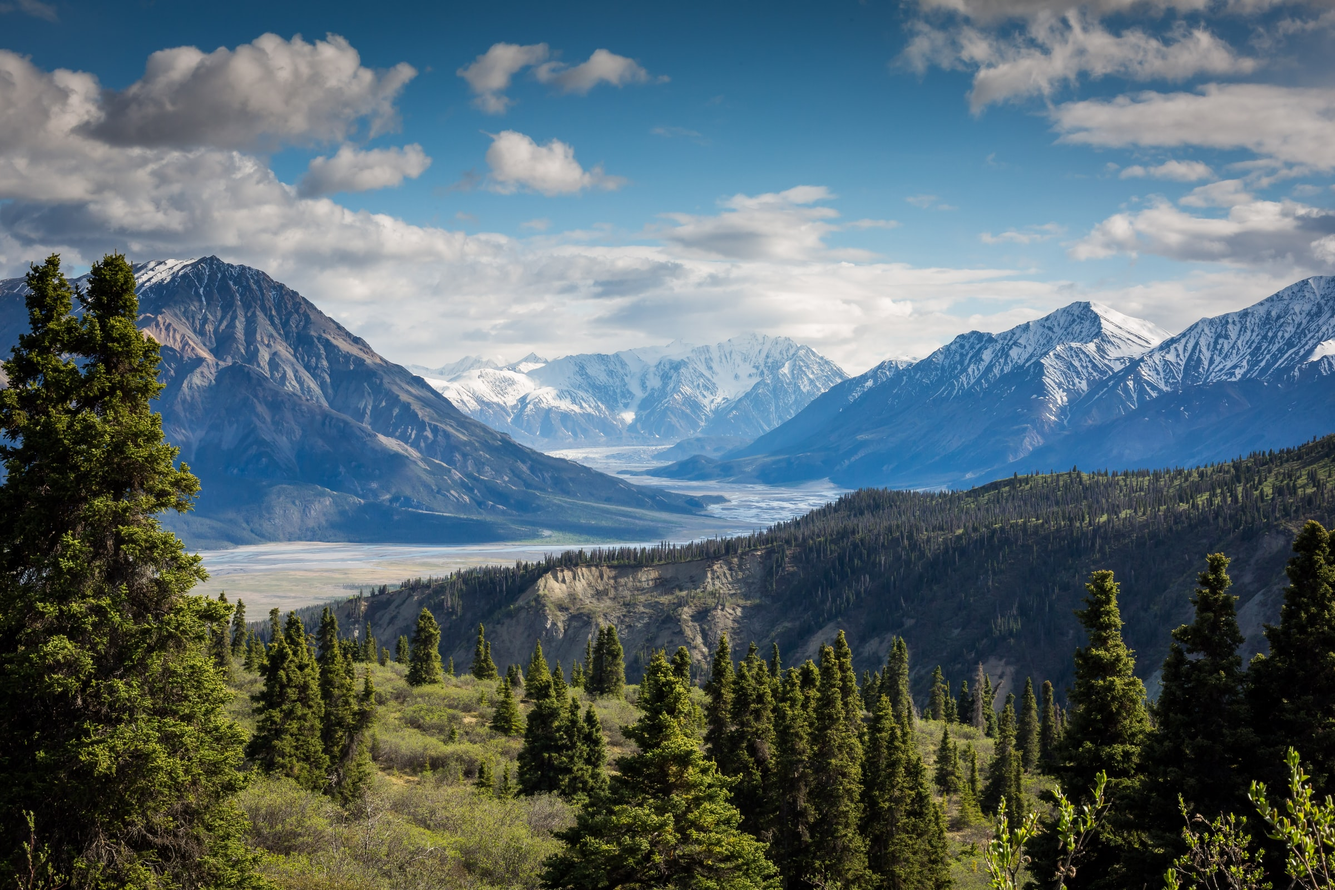
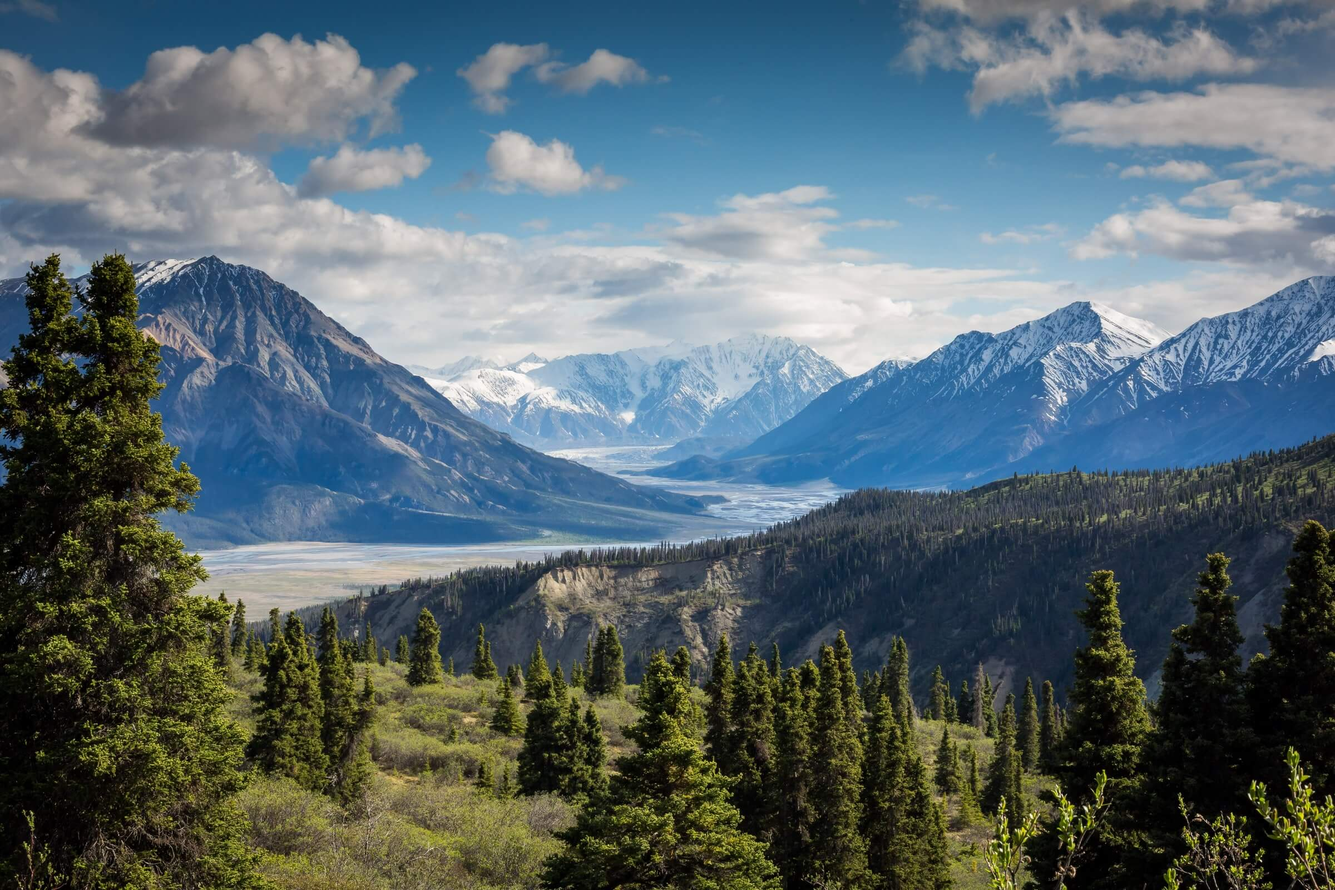
Clean files and compress bg

Changed region(s): [[0.9062, 0.9375, 0.9375, 0.9688]]

diff --git a/index.html b/index.html
@@ -9,7 +9,6 @@
       rel="stylesheet"
     />
 
-    <link rel="stylesheet" href="css/icon-font.css" />
     <link rel="stylesheet" href="css/style.css" />
     <link rel="shortcut icon" type="image/png" href="img/logo.png" />
     <link

diff --git a/css/style.css b/css/style.css
@@ -1,12 +1,3 @@
-/*
-COLORS:
-
-Light green: #7ed56f
-Medium green: #55c57a
-Dark green: #28b485
-
-*/
-
 * {
   margin: 0;
   padding: 0;
